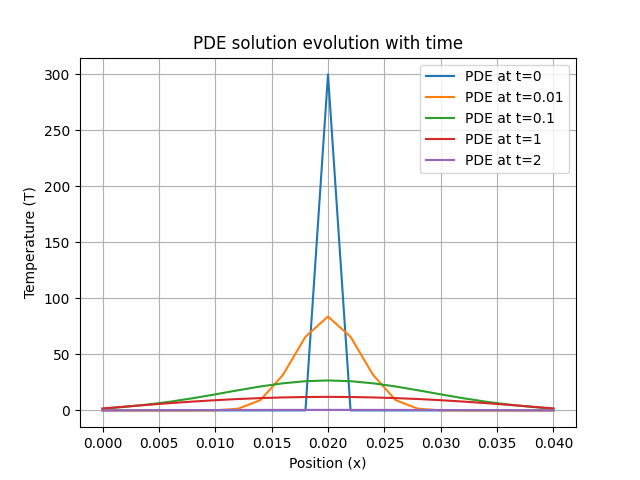
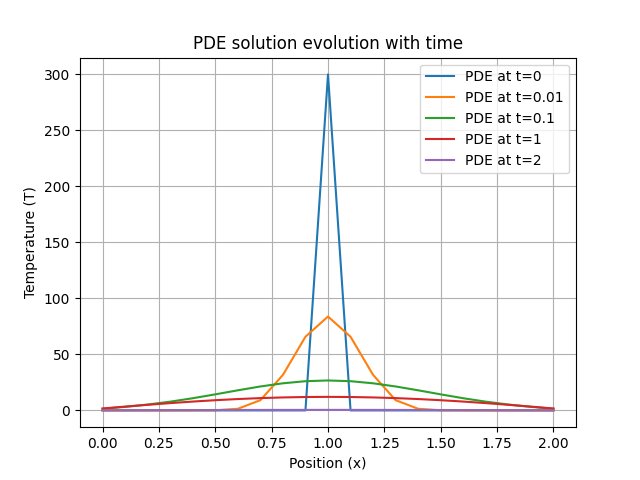
I plotted the final graph against the wrong variable, fixed it, now its a Temperature vs position graph

diff --git a/Assignment 15 - Boundary Value Problems and PDE/asgn15.py b/Assignment 15 - Boundary Value Problems and PDE/asgn15.py
@@ -90,11 +90,11 @@ V2 = V[200]
 V3 = V[-1]
 V4 = V[5]
 
-plt.plot(T,V0, label="PDE at t=0")
-plt.plot(T,V4, label="PDE at t=0.01")
-plt.plot(T,V1, label="PDE at t=0.1")
-plt.plot(T,V2, label="PDE at t=1")
-plt.plot(T,V3, label="PDE at t=2")
+plt.plot(X,V0, label="PDE at t=0")
+plt.plot(X,V4, label="PDE at t=0.01")
+plt.plot(X,V1, label="PDE at t=0.1")
+plt.plot(X,V2, label="PDE at t=1")
+plt.plot(X,V3, label="PDE at t=2")
 plt.xlabel('Position (x)')
 plt.ylabel('Temperature (T)')
 plt.title("PDE solution evolution with time")
